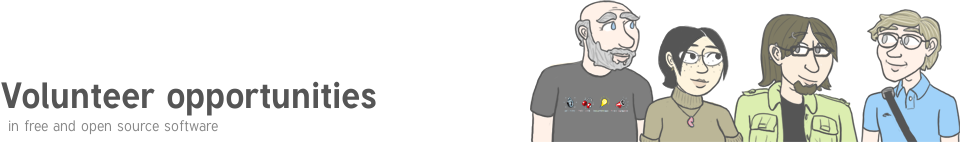
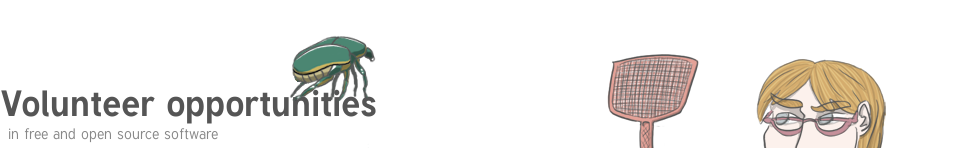
Added new volunteer opps graphic; moved people graphic to list of people and added header there

diff --git a/mysite/profile/templates/profile/search_people.html b/mysite/profile/templates/profile/search_people.html
@@ -5,10 +5,8 @@
 {% endblock css_append_to_base_one_column %}
 
 {% block main %}
+<img alt='People on OpenHatch' id='people-search' alt='People on OpenHatch' src='/static/images/people-search.png' />
 <div id='big-people-list' class='module'>
-    <div class='module-header head'>
-        <h3>This is everybody on OpenHatch</h3>
-    </div>
     <div class='module-content body'>
         <ul>
             {% for person in people %}

diff --git a/mysite/profile/templates/profile/widget.html b/mysite/profile/templates/profile/widget.html
@@ -97,6 +97,14 @@
         font-size: 8pt;
         text-align: right;
     }
+    
+    #openhatch-widget .module > .foot a {
+        color: #555;
+    }
+    
+    #openhatch-widget .module > .foot a:hover {
+        color: black;
+    }
 
     #openhatch-widget .module > .body.contains-submodules {
         background: #fff url('/static/images/motif.png');

diff --git a/mysite/static/css/list_of_people.css b/mysite/static/css/list_of_people.css
@@ -4,6 +4,13 @@
 }
 #big-people-list h3 {
     width: 980px;
+    margin: 0 0 -10px 0;
+    padding: 0;
+}
+
+#big-people-list img {
+    margin: 0 0 -5px 0;
+    padding: 0;
 }
 #big-people-list ul {
     width: 980px;
